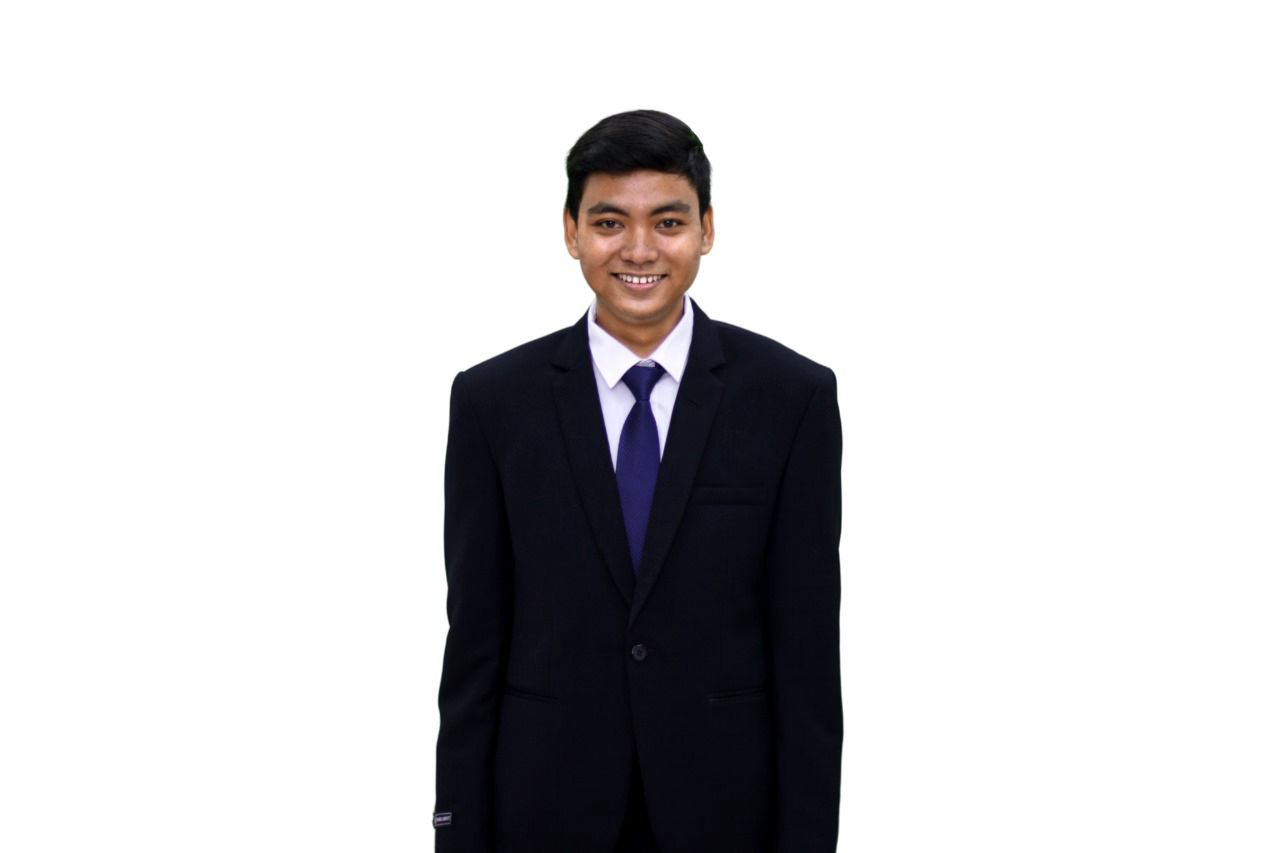
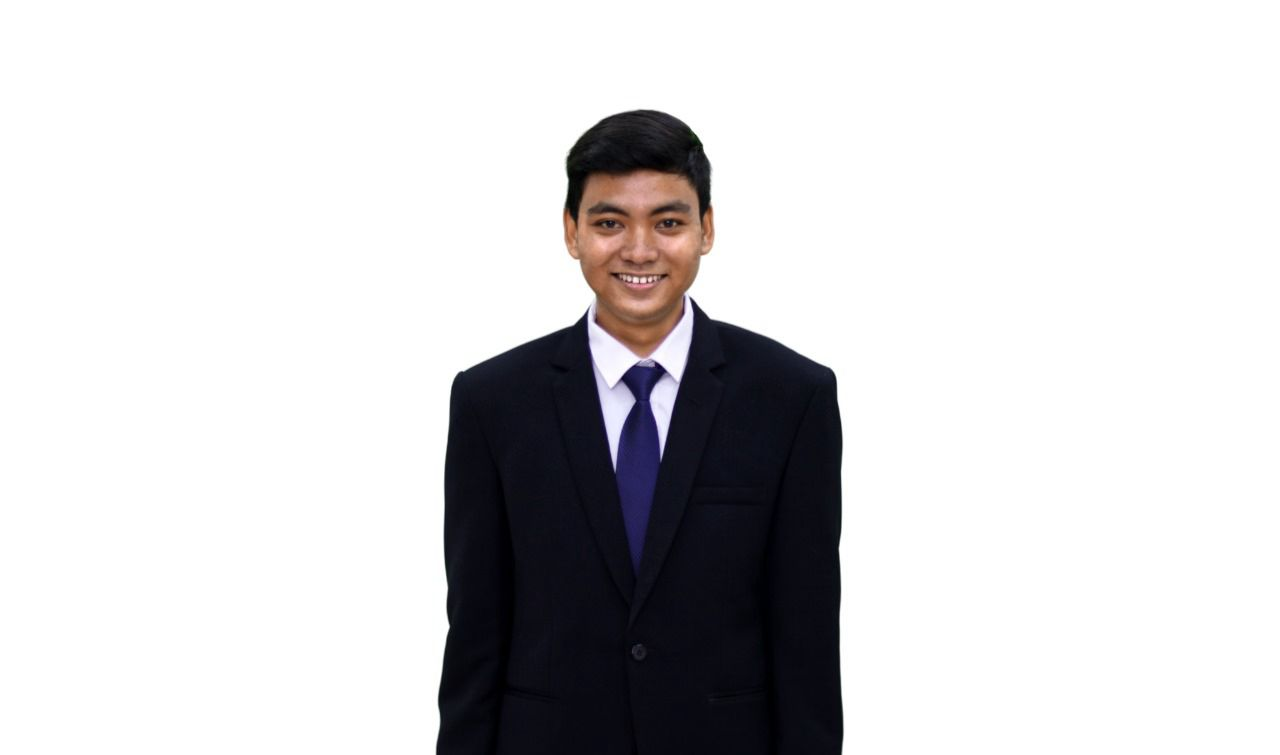
Add files via upload

diff --git a/styles/style.css b/styles/style.css
@@ -193,7 +193,7 @@ nav ul li a {
 }
 
 .hero-right img {
-  width: 90%;
+  width: 105%;
 }
 
 .hero-right {
@@ -333,6 +333,10 @@ height: fit-content;
   /* grid-template-columns: 40% 60%; */
   grid-template-columns: repeat(auto-fit, minmax(350px, 1fr));
   gap: 3rem;
+}
+
+.skills-list {
+font-family: 'Times New Roman';
 }
 
 .education {

diff --git a/index.html b/index.html
@@ -48,7 +48,7 @@
           </div>
 
           <div class="hero-right">
-            <img src="./images/Mikael .jpg" alt="Person Standing" />
+            <img src="./images/Mikael .png" alt="Person Standing" />
           </div>
         </section>
       </div>
